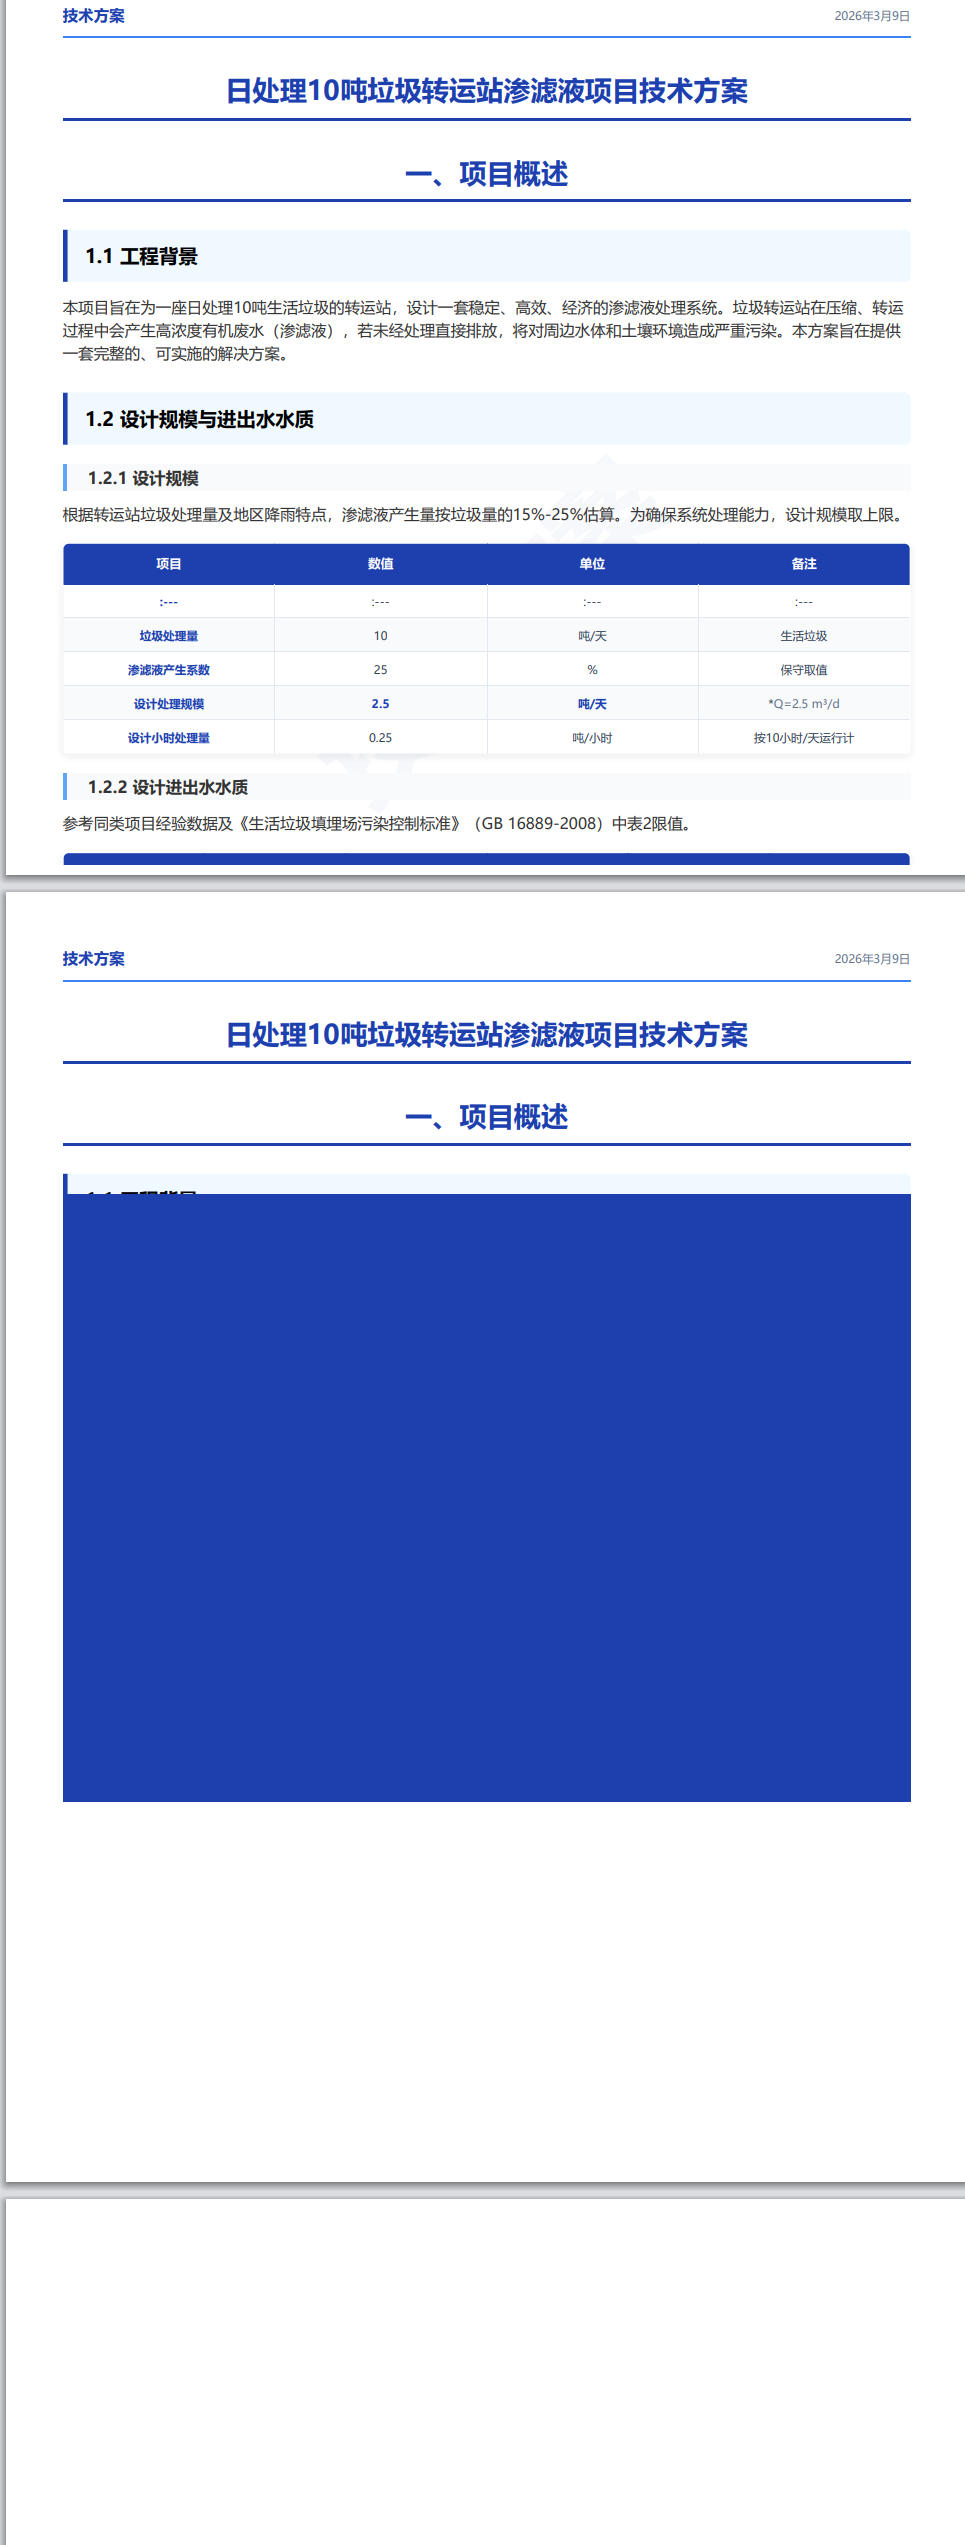
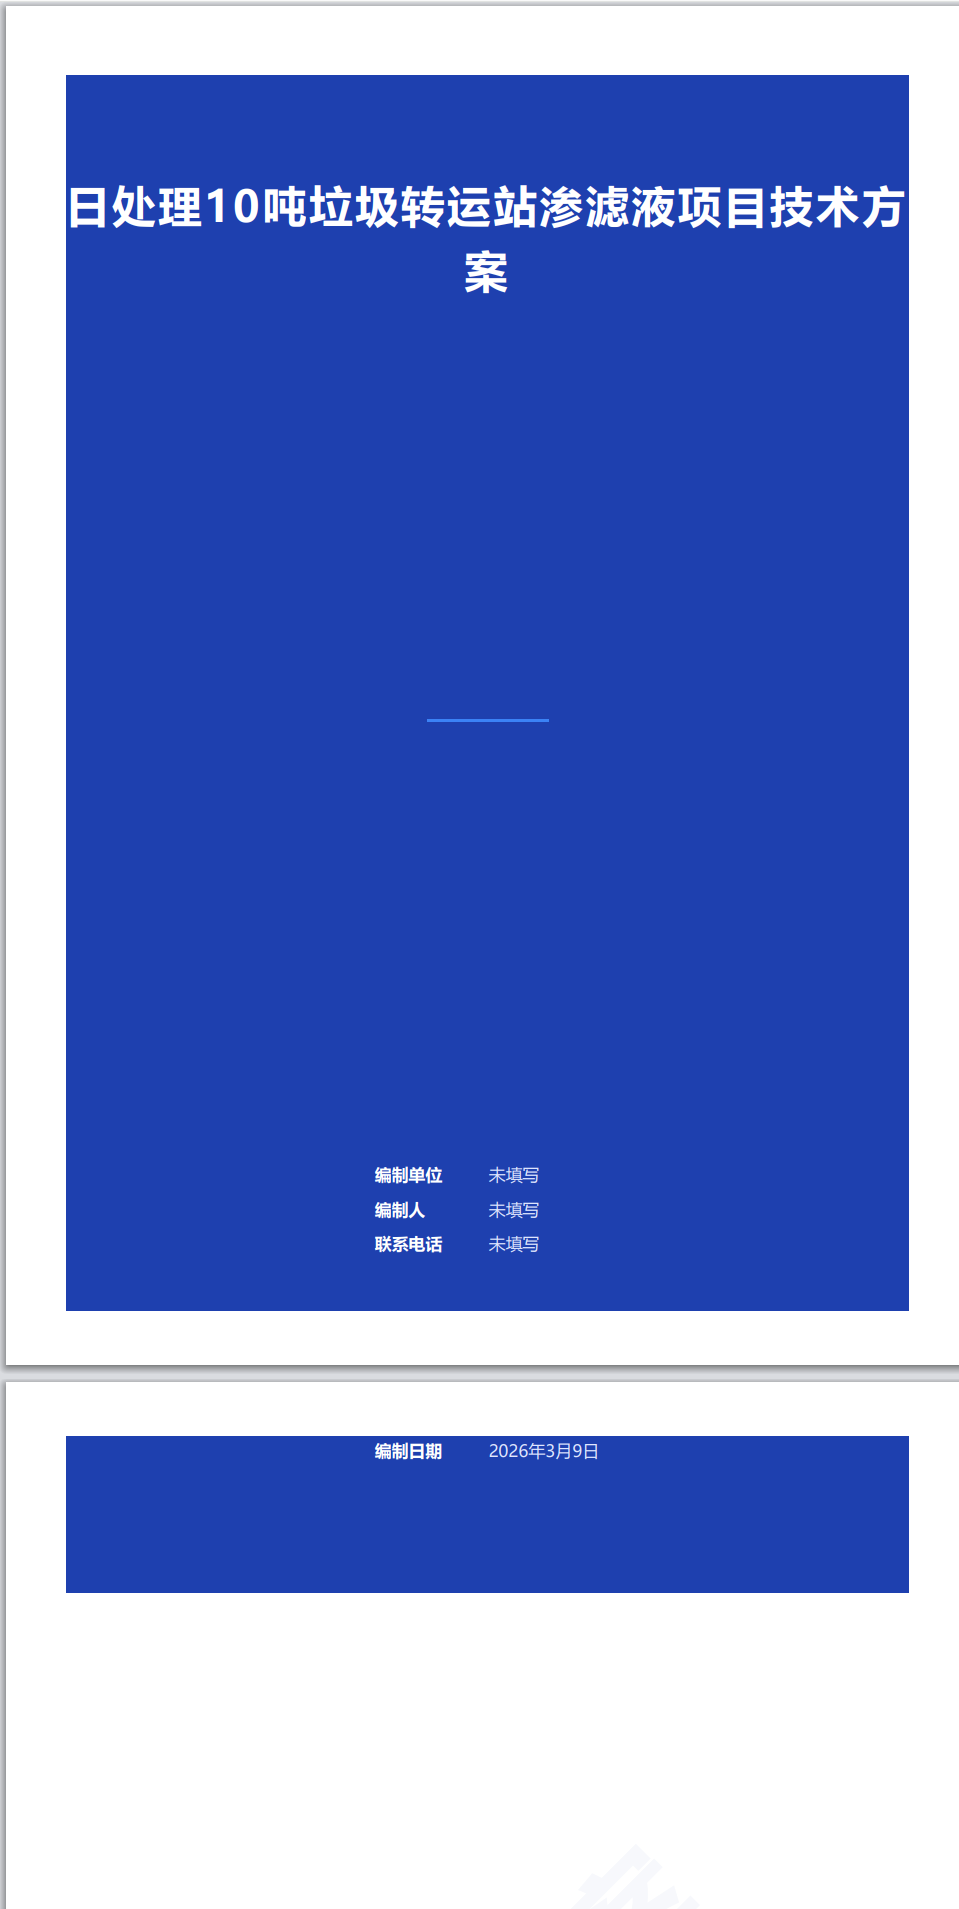
feat: 优化PDF封面布局 - 修复底部超出与竖排标题
- 修复编制信息超出范围问题：调整@page margin为0，增加封面底部padding
- 实现方案名称竖排显示：使用writing-mode: vertical-rl实现中文竖排效果
- 优化封面布局结构：分为顶部和底部两个区域，使用flex布局实现合理间距
- 调整正文padding：因@page margin改为0，正文区域添加padding保持边距
- 增强商务风格：加大标题字体、增加字母间距、添加阴影效果

diff --git a/src/components/chat-message.tsx b/src/components/chat-message.tsx
@@ -1484,6 +1484,8 @@ export default function ChatMessage({
     .content {
       position: relative;
       z-index: 1;
+      padding: 12mm 10mm;
+      min-height: 297mm;
     }
     
     /* 移除首行缩进的特殊情况 */
@@ -1522,14 +1524,22 @@ export default function ChatMessage({
   
   <!-- 封面页 -->
   <div class="cover">
-    <div class="cover-title">${projectTitle}</div>
-    <div class="cover-divider"></div>
-    <div class="cover-info">
-      <p><strong>编制单位</strong>　${supplierName}</p>
-      <p><strong>编制人</strong>　${contactPerson}</p>
-      <p><strong>联系电话</strong>　${contactPhone}</p>
-      ${contactEmail !== '未填写' ? `<p><strong>电子邮箱</strong>　${contactEmail}</p>` : ''}
-      <p><strong>编制日期</strong>　${currentDate}</p>
+    <!-- 封面顶部区域 -->
+    <div class="cover-top">
+      <div class="cover-title">${projectTitle}</div>
+      <div class="cover-vertical-text">技术方案</div>
+      <div class="cover-divider"></div>
+    </div>
+    
+    <!-- 封面底部区域 -->
+    <div class="cover-bottom">
+      <div class="cover-info">
+        <p><strong>编制单位</strong>　${supplierName}</p>
+        <p><strong>编制人</strong>　${contactPerson}</p>
+        <p><strong>联系电话</strong>　${contactPhone}</p>
+        ${contactEmail !== '未填写' ? `<p><strong>电子邮箱</strong>　${contactEmail}</p>` : ''}
+        <p><strong>编制日期</strong>　${currentDate}</p>
+      </div>
     </div>
   </div>
   
@@ -1609,7 +1619,7 @@ export default function ChatMessage({
     /* 打印设置 */
     @page {
       size: A4;
-      margin: 1.2cm 1.0cm;
+      margin: 0;
     }
     
     @media print {
@@ -1680,62 +1690,79 @@ export default function ChatMessage({
       line-height: 1.5;
       color: #333;
       margin: 0;
-      padding: 12px;
+      padding: 0;
     }
     
     /* 封面样式 - 优化版 */
     .cover {
       text-align: center;
-      padding: 40px 0;
+      padding: 0;
       page-break-after: always;
       background: #1e40af;
       color: white;
-      min-height: 100vh;
+      min-height: 297mm; /* A4高度 */
+      height: 297mm;
       display: flex;
       flex-direction: column;
       justify-content: space-between;
+      position: relative;
       -webkit-print-color-adjust: exact;
       print-color-adjust: exact;
     }
     
-    .cover-title {
-      font-size: 36px;
-      font-weight: bold;
-      color: #ffffff;
-      margin-bottom: 8px;
-      margin-top: 40px;
-      letter-spacing: 2px;
+    /* 封面顶部区域 */
+    .cover-top {
+      flex: 1;
+      display: flex;
+      flex-direction: column;
+      align-items: center;
+      padding-top: 60px;
     }
     
-    .cover-subtitle {
-      font-size: 14px;
-      color: #cbd5e1;
+    .cover-title {
+      font-size: 42px;
+      font-weight: bold;
+      color: #ffffff;
       margin-bottom: 30px;
+      letter-spacing: 4px;
+      text-shadow: 2px 2px 4px rgba(0,0,0,0.2);
+    }
+    
+    /* 竖排方案名称 */
+    .cover-vertical-text {
+      writing-mode: vertical-rl;
+      text-orientation: mixed;
+      font-size: 16px;
+      color: #cbd5e1;
+      letter-spacing: 8px;
+      height: 120px;
+      margin: 0 auto;
       font-weight: 400;
-      letter-spacing: 1px;
-      text-transform: uppercase;
     }
     
     .cover-divider {
-      width: 100px;
+      width: 150px;
       height: 2px;
       background: #3b82f6;
-      margin: 0 auto 20px;
+      margin: 20px auto 0;
+    }
+    
+    /* 封面底部区域 */
+    .cover-bottom {
+      padding: 0 80px 50px 80px;
+      text-align: left;
     }
     
     .cover-info {
       font-size: 13px;
       color: #e0e7ff;
-      margin: 0 auto;
-      max-width: 500px;
-      line-height: 2.2;
+      line-height: 2.5;
       text-align: left;
-      padding-bottom: 60px;
     }
     
     .cover-info p {
       text-indent: 0;
-      margin: 5px 0;
+      margin: 8px 0;
       color: #e0e7ff;
     }
     
@@ -1743,7 +1770,8 @@ export default function ChatMessage({
       color: #ffffff;
       font-weight: 600;
       display: inline-block;
-      min-width: 80px;
+      min-width: 90px;
+      letter-spacing: 1px;
     }
     
     /* 页眉 */
